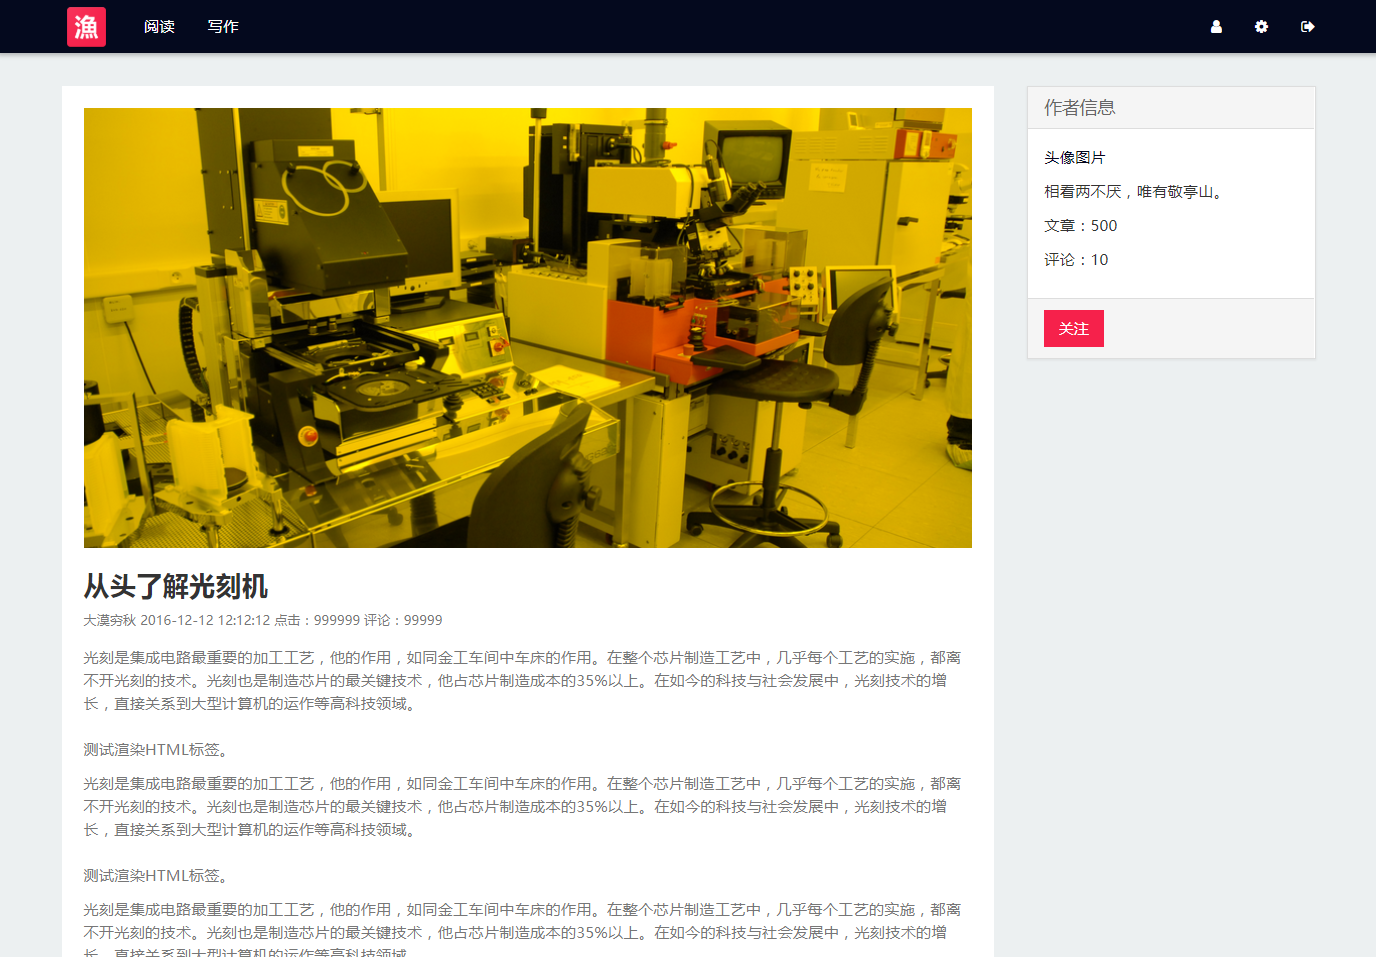
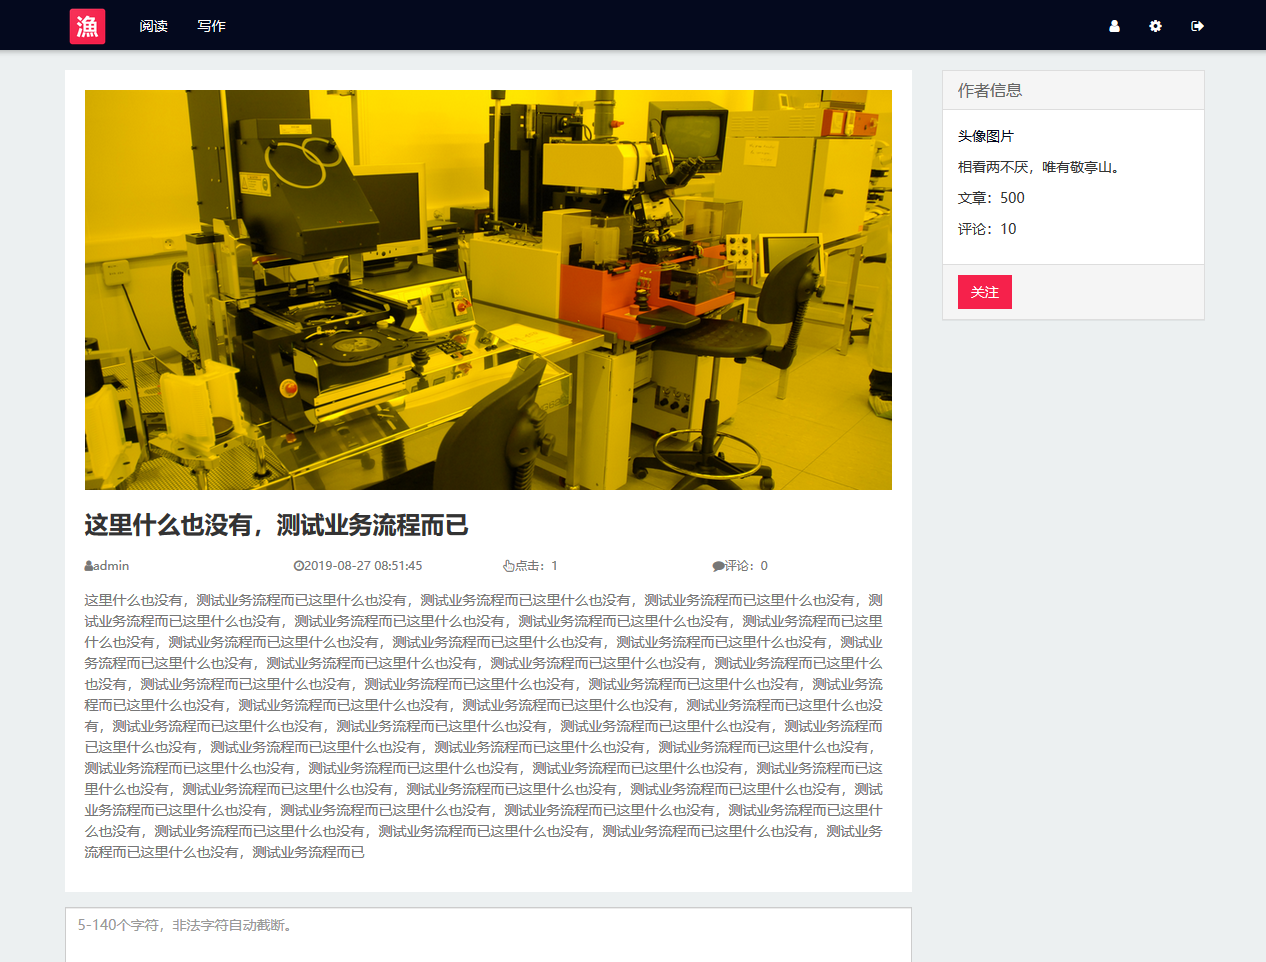
update

diff --git a/README.md b/README.md
@@ -72,6 +72,8 @@ http://118.25.136.164
 
 <img src="./src/assets/imgs/4.png">
 
+<img src="./src/assets/imgs/5.png">
+
 ## 打包分析
 
 以下是用 webpack-bundle-analyzer 分析打包之后的模块构成：
